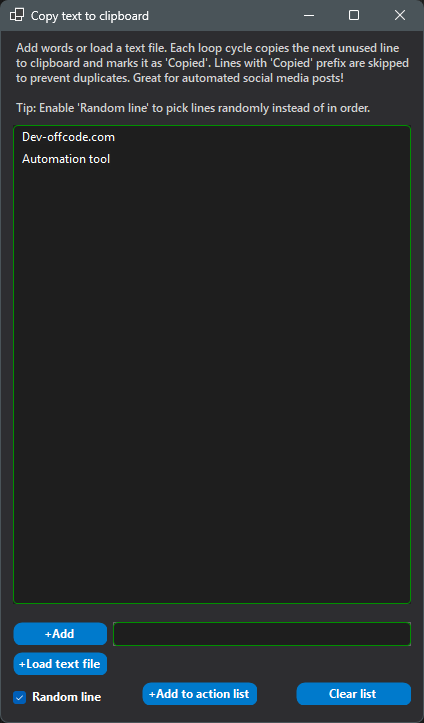
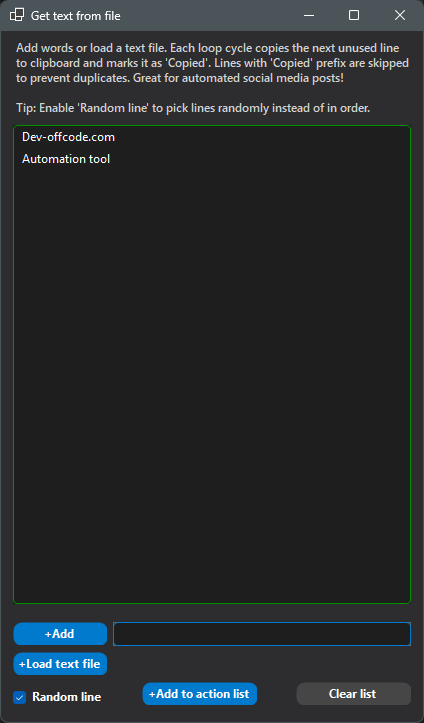
Add files via upload

Changed region(s): [[0.6745, 0.9433, 0.9811, 0.9737], [0.092, 0.0, 0.3679, 0.0304]]

diff --git a/AutomationTool.html b/AutomationTool.html
@@ -9,7 +9,7 @@
     <meta name="description"
         content="Windows desktop automation tool - OCR text detection, UI Automation, mouse/keyboard simulation. Automate social media, web tasks, gaming, and more with action sequences.">
     <meta name="author" content="OffCrypt">
-    <meta name="last-modified" content="2026-02-04">
+    <meta name="last-modified" content="2026-02-05">
     <meta name="keywords"
         content="windows automation, desktop automation, automation tool, ocr automation, script automation, windows automation tool, auto clicker, auto typer, web automation, bot maker">
     <meta name="robots" content="index, follow">
@@ -79,6 +79,7 @@
         "screenshot": [
             "https://www.dev-offcode.com/OffCodeAutomation.png",
             "https://www.dev-offcode.com/ScannerTriggerP.png",
+            "https://www.dev-offcode.com/LoadTextFile.png",
             "https://www.dev-offcode.com/VisualReader.png",
             "https://www.dev-offcode.com/VisualReader2.png",
             "https://www.dev-offcode.com/VisualMarkers.png"
@@ -118,10 +119,10 @@
                 "https://www.youtube.com/@OffCrypt"
             ]
         },
-        "softwareVersion": "1.0",
-        "releaseNotes": "Initial release of Offcode Automation Tool with OCR, UI Automation, and script automation features",
+        "softwareVersion": "1.1",
+        "releaseNotes": "Scheduled start queue (multiple times, add/remove), improved hotkeys (F1/F2, Numpad 1-4), text list for automation, and documentation updates",
         "datePublished": "2025-01-22",
-        "dateModified": "2026-02-04"
+        "dateModified": "2026-02-05"
     }
     </script>
 
@@ -192,6 +193,22 @@
                     "@type": "Answer",
                     "text": "Create an action sequence by adding steps like Wait for Text, Click, Type, Copy, Paste, and more. Press F1 to start the automation and F2 to stop."
                 }
+            },
+            {
+                "@type": "Question",
+                "name": "How does Scheduled Start work?",
+                "acceptedAnswer": {
+                    "@type": "Answer",
+                    "text": "Add one or more date/time values to the schedule queue with '+Add to queue'. Enable Scheduled start; at each time the script runs automatically and that entry is removed. Use 'Remove selected' to remove a time from the list."
+                }
+            },
+            {
+                "@type": "Question",
+                "name": "How do I use different text each loop (text list)?",
+                "acceptedAnswer": {
+                    "@type": "Answer",
+                    "text": "Open the Text list window via '+Get text from file'. Load lines from a file or add manually, then add the 'Get text from list' action to your script from that window. When the script runs that step, the next line is copied to the clipboard and marked used; the next action can paste or type it. Optional random order lets each run use a random unused line."
+                }
             }
         ]
     }
@@ -208,7 +225,7 @@
             {"@type": "HowToStep", "name": "Open Visual Reader", "text": "Launch Offcode Automation Tool and open the Visual Reader panel."},
             {"@type": "HowToStep", "name": "Configure scanner shape", "text": "Choose Circle or Rectangle scanning area and adjust size."},
             {"@type": "HowToStep", "name": "Enable scanner", "text": "Check 'Enable scanner' to start the Visual Reader overlay."},
-            {"@type": "HowToStep", "name": "Add Visual Markers", "text": "Press F3 to add numbered markers at mouse position for important click spots."},
+            {"@type": "HowToStep", "name": "Add Visual Markers", "text": "Choose a hotkey (e.g. 1–9, F3–F12, Numpad) in Settings and press it to add numbered markers at mouse position."},
             {"@type": "HowToStep", "name": "Create trigger actions", "text": "Add [WAIT FOR TEXT] or [WAIT GONE] actions to your script for conditional automation."},
             {"@type": "HowToStep", "name": "Start automation", "text": "Press F1 to start the automation. Press F2 to stop at any time."}
         ]
@@ -385,6 +402,14 @@
                                 <span class="highlight-icon">📝</span>
                                 <span class="highlight-text">Action Sequences</span>
                             </div>
+                            <div class="highlight-item">
+                                <span class="highlight-icon">⏰</span>
+                                <span class="highlight-text">Scheduled Start</span>
+                            </div>
+                            <div class="highlight-item">
+                                <span class="highlight-icon">📋</span>
+                                <span class="highlight-text">Text list</span>
+                            </div>
                         </div>
 
                     </div>
@@ -413,6 +438,15 @@
                         data-title="OffCode Automation Tool"
                         data-desc="Wait until text appears/disappears using scanner triggers">
                         <img src="ScannerTriggerP.png" alt="OffCode Automation Tool - Scanner Trigger">
+                        <div class="image-overlay">
+                            <div class="zoom-icon">🔍</div>
+                        </div>
+                    </div>
+
+                    <div class="image-card featured" data-image="LoadTextFile.png"
+                        data-title="Text list for automation"
+                        data-desc="Load .txt/.md or add lines manually; use in script to feed next line to clipboard each step">
+                        <img src="LoadTextFile.png" alt="Text list - load lines and use in automation">
                         <div class="image-overlay">
                             <div class="zoom-icon">🔍</div>
                         </div>
@@ -567,22 +601,37 @@
                             </ul>
                         </div>
 
+                        <!-- Text list for automation (CollectForm) -->
+                        <div class="feature-card">
+                            <div class="feature-icon">📋</div>
+                            <h3>Text list for automation</h3>
+                            <p>Use a list of lines (e.g. search terms, messages, usernames) and feed one line per script step into the clipboard.</p>
+                            <ul class="feature-list">
+                                <li>Open the text-list window via &quot;+Get text from file&quot; in the main form</li>
+                                <li>Load lines from a .txt or .md file, or add lines manually</li>
+                                <li>Optional: use random order instead of first-to-last</li>
+                                <li>Add the &quot;Get text from list&quot; action to your script from that window — it inserts a step that runs during automation</li>
+                                <li>When the script reaches that step, the next unused line is copied to the clipboard and marked as used (so it won’t be picked again)</li>
+                                <li><strong>Idea:</strong> each loop iteration can use different text — e.g. paste into a search box, type into a field, or fill a form with the next line from your list</li>
+                            </ul>
+                        </div>
+
                         <!-- Supported Commands -->
                         <div class="feature-card">
                             <div class="feature-icon">⌨</div>
                             <h3>Supported Commands</h3>
-                            <p>Available script commands</p>
+                            <p>Available script commands (typed or chosen from the dropdown)</p>
                             <ul class="feature-list" style="font-family: monospace; font-size: 0.9em;">
-                                <li>/scroll:down,3</li>
-                                <li>/scroll:up,3</li>
                                 <li>/copy:Your txt</li>
                                 <li>/paste</li>
+                                <li>/wait:500</li>
                                 <li>/type:Your txt</li>
                                 <li>/hotkey:ctrl+c</li>
-                                <li>/move:100,200</li>
-                                <li>/wait:500</li>
                                 <li>/key:Enter</li>
+                                <li>/move:100,200</li>
                                 <li>/click:500,300</li>
+                                <li>/scroll:up,3</li>
+                                <li>/scroll:down,3</li>
                                 <li>/startprocess:notepad.exe</li>
                                 <li>/stopprocess:notepad.exe</li>
                                 <li>/openwebsite:google.com</li>
@@ -602,16 +651,33 @@
                             </ul>
                         </div>
 
+                        <!-- Scheduled Start -->
+                        <div class="feature-card">
+                            <div class="feature-icon">⏰</div>
+                            <h3>Scheduled Start</h3>
+                            <p>Run your script at specific times automatically</p>
+                            <ul class="feature-list">
+                                <li>Add multiple date/time entries to a queue</li>
+                                <li>+Add to queue — add time from the text field</li>
+                                <li>Remove selected — remove chosen time from the list</li>
+                                <li>When a scheduled time is reached, script runs and that time is removed; next time runs automatically</li>
+                                <li>Supports common date/time formats (e.g. system locale, dd.MM.yyyy HH:mm)</li>
+                            </ul>
+                        </div>
+
                         <!-- Hotkey Control -->
                         <div class="feature-card">
                             <div class="feature-icon">⚡</div>
                             <h3>Hotkey Control</h3>
                             <p>Quick access shortcuts</p>
                             <ul class="feature-list">
-                                <li>F1 - Start automation</li>
-                                <li>F2 - Stop automation</li>
-                                <li>Custom hotkey - Add visual marker</li>
-                                <li>Numpad 1 - Scan text ( Visual Reader manual )</li>
+                                <li>F1 — Start automation</li>
+                                <li>F2 — Stop automation</li>
+                                <li>Custom hotkey (1–9, F3–F12, Numpad) — Add visual marker</li>
+                                <li>Numpad 1 — Manual scan (Visual Reader)</li>
+                                <li>Numpad 2 — Lock scanner position</li>
+                                <li>Numpad 3 — Unlock scanner</li>
+                                <li>Numpad 4 — Add text collection region</li>
                             </ul>
                         </div>
 
@@ -776,9 +842,28 @@
                             <div class="faq-item">
                                 <h4>How do Visual Markers work?</h4>
                                 <p>Visual Markers are numbered green circles you can place on the screen to mark
-                                    important click positions. Press F3 to add a marker at your current mouse position.
-                                    Markers display their coordinates and can be used in automation scripts for precise
-                                    clicking.</p>
+                                    important click positions. Choose a hotkey (e.g. 1–9, F3–F12, Numpad) in Settings
+                                    and press it to add a marker at your current mouse position. Markers display their
+                                    coordinates and can be used in automation scripts for precise clicking.</p>
+                            </div>
+                            <div class="faq-item">
+                                <h4>How does Scheduled Start work?</h4>
+                                <p>Scheduled Start lets you run your automation script at specific times. Enter a date
+                                    and time in the text field and click &quot;+Add to queue&quot; to add it to the list. You can
+                                    add multiple times; they run in order. When a time is reached, the script starts
+                                    automatically and that entry is removed from the list; the next scheduled time then
+                                    runs when due. Use &quot;Remove selected&quot; to remove a chosen time from the list. Enable
+                                    &quot;Scheduled start&quot; to activate the queue.</p>
+                            </div>
+                            <div class="faq-item">
+                                <h4>How do I use different text each time in my script (e.g. each loop)?</h4>
+                                <p>Use the <strong>Text list</strong> feature. Open it via &quot;+Get text from file&quot;. Load
+                                    lines from a .txt/.md file or add them manually. Click the button there to add a
+                                    &quot;Get text from list&quot; step to your action sequence. When the script runs that step,
+                                    the next line from the list is copied to the clipboard and marked as used. The
+                                    following action can paste or type it (e.g. into a search box or form). You can
+                                    choose random order so each run uses a random unused line. This way every loop
+                                    iteration can use a different value from your list.</p>
                             </div>
                             <div class="faq-item">
                                 <h4>What are Scanner Triggers?</h4>
